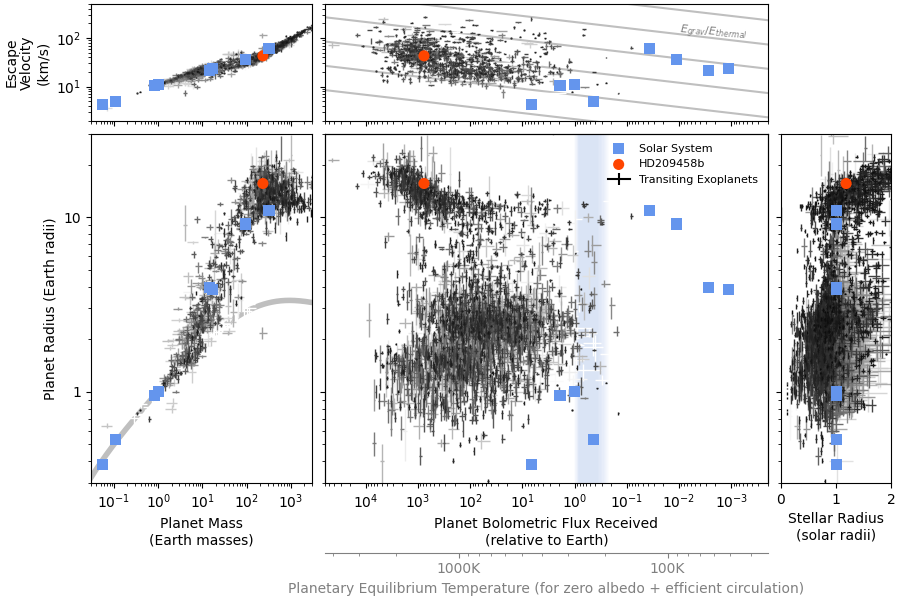
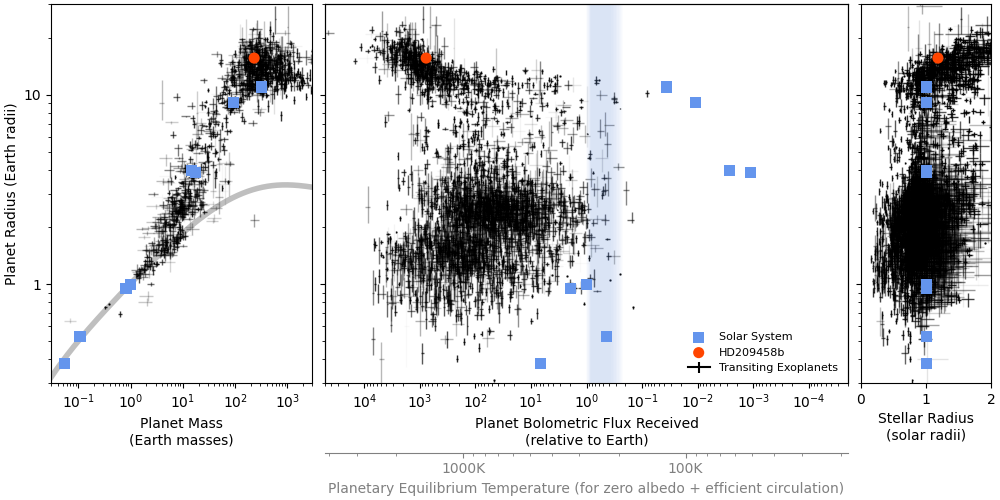
small paper edits

diff --git a/exoatlas/populations/population_core.py b/exoatlas/populations/population_core.py
@@ -689,7 +689,7 @@ class Population:
         self._plotkw["color"] = "orangered"
         self._plotkw["zorder"] = 10000
         self._plotkw["bubble_anyway"] = self._plotkw.get("bubble_anyway", True)
-        self._plotkw["s"] = np.maximum(self._plotkw.get("s", 1), 64)
+        self._plotkw["s"] = np.maximum(self._plotkw.get("s", 1), 256)
 
     def create_subset_by_name(self, key):
         """

diff --git a/paper/paper.py b/paper/paper.py
@@ -5,5 +5,5 @@ e = TransitingExoplanets()
 s = SolarSystem()
 h = e["HD209458b"]
 
-PlanetGalleryWithEscape().build([e, s, h])
+PlanetGallery().build([e, s, h])
 plt.savefig("paper/joss-exoatlas-example.png")

diff --git a/paper/paper.md b/paper/paper.md
@@ -13,16 +13,25 @@ authors:
     orcid: 0000-0001-6484-7559
     affiliation: 1
   - name: Autumn Stephens
-    orcid: ???
+    orcid: 0009-0009-7798-8700
     affiliation: 1
   - name: Mirielle Caradonna
+    orcid: 0009-0000-9058-0069
+    affiliation: 1
+  - name: Catriona Murray
+    orcid: 0000-0001-8504-5862
+    affiliation: 1
+  - name: Valerie Arriero
+    orcid: ???
+    affiliation: 1
+  - name: Jackson Avery?
     orcid: ???
     affiliation: 1
   - name: Girish M. Duvvuri
     orcid: 0000-0002-7119-2543
     affiliation: 2
-  - name: Sebastian Pineda? 
-    orcid: 
+  - name: Sebastian Pineda 
+    orcid: 0000-0002-4489-0135
     affiliation: 3
 affiliations:
  - name: Department of Astrophysical and Planetary Sciences, University of Colorado Boulder, USA
@@ -31,6 +40,9 @@ affiliations:
  - name: Department of Physics and Astronomy, Vanderbilt University, USA
    index: 2
    ror: 02vm5rt34
+ - name: Laboratory for Atmospheric and Space Physics, University of Colorado Boulder, USA
+   index: 3 
+   ror: 01fcjzv38
 date: 16 June 2025?
 bibliography: paper.bib
 
@@ -42,7 +54,7 @@ aas-journal: The Astrophysical Journal Letters <- The name of the AAS journal.
 
 # Summary
 
-Planets are complicated. Understanding how they work requires connecting individual objects to the context of broader populations. Exoplanets are easier to picture next to their closest Solar System archetypes; planets in the Solar System become richer when viewed as part of a growing community of known exoplanets in the Milky Way. The `exoatlas` toolkit provides a friendly Python interface for retrieving and working with populations of planets, aiming to simplify the process of placing worlds in context. 
+Planets are complicated. Understanding how they work requires connecting individual objects to the context of broader populations. Exoplanets are easier to picture next to their closest Solar System archetypes, and planets in the Solar System are richer when seen alongside a growing community of known exoplanets in the Milky Way. The `exoatlas` toolkit provides a friendly Python interface for retrieving and working with populations of planets, aiming to simplify the process of placing worlds in context. 
 
 # Statement of need
 
@@ -52,15 +64,15 @@ Planets are complicated. Understanding how they work requires connecting individ
 - 🧮 calculating derived planet quantities with propagated uncertainties
 - 🗺 comparing individual exoplanets to relevant comparison samples
 - 🔭 planning future telescope observations of known exoplanet systems
-- 🧑🏫 making beautiful planet plots for up-to-date data-rich lectures
+- 🧑🏫 making beautiful and up-to-date planet data visualizations
 
-Online planetary data archives have merged incredible curatorial efforts with powerful tools for data access and visualization, including the NASA Exoplanet Archive [@exo-archive], exoplanet.eu [@???], exo.MAST [@???], and Open Exoplanet Catalog [@open-exo] for exoplanets and the JPL Solar System Dynamics [@???], IAU Minor Planet Center [@???], the NSSDCA Planetary Facts sheets [@???] for Solar System objects. `exoatlas` does not intend to replace any of these important archival efforts (it pulls nearly all its data from them); rather, `exoatlas` aims to provide an approachable interface for exploratory analysis and illuminating visualizations to help the community make better use of these resources. 
+Online planetary data archives merge incredible curatorial efforts with powerful tools for data access and visualization, including the NASA Exoplanet Archive [@exo-archive], exoplanet.eu [@???], exo.MAST [@???], and Open Exoplanet Catalog [@open-exo] for exoplanets and the JPL Solar System Dynamics [@???], IAU Minor Planet Center [@???], the NSSDCA Planetary Facts sheets [@???] for Solar System objects. `exoatlas` does not intend to replace any of these important archival efforts (it pulls nearly all its data from them); rather, `exoatlas` aims to provide an approachable interface for exploratory analysis and illuminating visualizations to help the community make better use of these resources. 
 
 # Mapping populations with `exoatlas` 
 
-The user interface for `exoatlas` centers around the `Population` class, with each `Population` object containing a standardized table of planet properties and methods for interacting with that table. `exoatlas` makes extensive use of `astropy` [@astropy] to be as familiar as possible for modern astronomers, and it is thoroughly documented with astronomer audiences in mind at [zkbt.github.io/exoatlas/](https://zkbt.github.io/exoatlas/). 
+The user interface for `exoatlas` centers around the Python `Population` class, with each `Population` object containing a standardized table of planet properties and methods for interacting with that table. `exoatlas` makes extensive use of `astropy` [@astropy] to be as familiar as possible for modern astronomers, and it is thoroughly documented with astronomical audiences in mind at [zkbt.github.io/exoatlas/](https://zkbt.github.io/exoatlas/). 
 
-🌎 To retrieve planet data, `exoatlas` provides classes that inherit from `Population` and automatically access archive data for exoplanets as well as Solar System major planets, minor planets, and moons. Exoplanet data come from the NASA Exoplanet Archive [@exo-archive] API, and Solar System data come from the JPL Solar System Dynamics [@???] API or small reformatted data tables included in the package repository itself. Whatever the original data source, all `Population` objects act similarly and have uniform nomenclature for accessing data columns. Planet quantities all have physical units attached with `astropy.units` to facilitate unit conversions and minimize conceptual errors. New `Population` objects can also be created from `astropy.table` tables, enabling custom datasets to be included.
+🌎 To retrieve planet data, `exoatlas` provides `Population` objects that automatically access archive data for exoplanets as well as Solar System major planets, minor planets, and moons. Exoplanet data come from the NASA Exoplanet Archive [@exo-archive] API, and Solar System data come from the JPL Solar System Dynamics [@???] API or small reformatted data tables included in the package repository itself. Whatever the original data source, all `Population` objects act similarly and have uniform nomenclature for accessing data columns. Planet quantities all have physical units attached with `astropy.units` to facilitate unit conversions and minimize conceptual errors. New `Population` objects can also be created from `astropy.table` tables, enabling custom datasets to be included.
 
 🧮 To calculate derived quantities for planets, a set of default methods are included within the core `Population` definition, or users may attach their own calculation methods. If data for a quantity is missing, calculations can be used to swap in alternate estimates; for example, a planet's semimajor axis $a$ will attempt first to pull from the original data table, and then second to calculate $a$ from the planet's period $P$ and the star's mass $M_\star$ assuming Newton's Version of Kepler's Third Law $P^2 = 4\pi^2 a^3/GM_\star$, and then third to calculate from a transit-derived ratio $a/R_*$. Uncertainties on all derived quantities can be numerically propagated using the `astropy.uncertainty` framework, where distributions of samples are generated for each original table quantity, carried through calculations, and then used to estimate confidence intervals.
 
@@ -77,12 +89,12 @@ e = TransitingExoplanets()
 s = SolarSystem()
 h = e["HD209458b"]
 
-PlanetGalleryWithEscape().build([e, s, h])
+PlanetGallery().build([e, s, h])
 ```
 ![Example `exoatlas` visualization placing the first discovered transiting exoplanet HD209458b in context with other transiting exoplanets and the eight major Solar System planets. Errorbars use a color intensity that scales inversely with quantity uncertainties, to avoid giving undue visual weight to the least precise data. \label{fig:exoatlas}](joss-exoatlas-example.png)
 
 # Research, teaching, and learning
-`exoatlas` was designed to support the researcher who wants to contextualize planet populations in papers, proposals, or talks, the educator who wants help connect lessons more immediately to real exoplanet and Solar System data, and the student who simply wants to learn a little more about oodles of neat planets. 
+`exoatlas` was designed to support the researcher who wants to contextualize planet populations in papers, proposals, or talks, the educator who wants help connect lessons more immediately to real exoplanet and Solar System data, and the student who simply wants to learn a little more about oodles of neat planets. All these communities are encouraged try `exoatlas`, to ask for help, to suggest improvements, and/or to contribute code!
 
 # Acknowledgements
 
